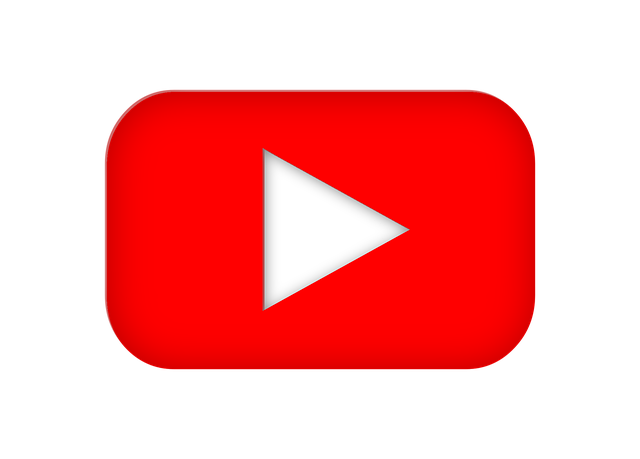
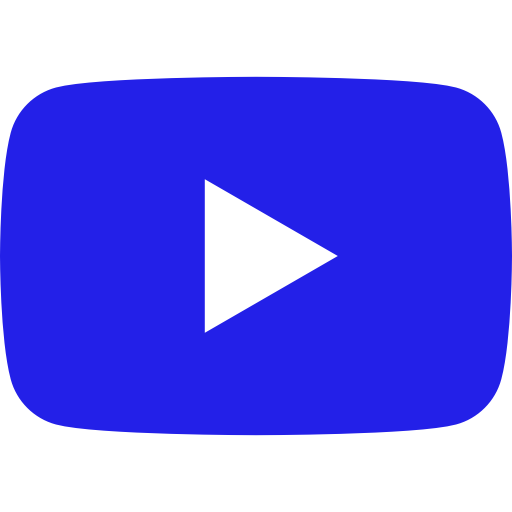
fixed grid and added color scheme

diff --git a/resume-style.css b/resume-style.css
@@ -2,166 +2,193 @@
   margin: 0;
 }
 
+header {
+  background-color: #32586d;
+}
+
 body {
-  background-color: rgb(59, 3, 3);
+  background-color: #748d9a;
 }
 
 .grid-container {
   display: grid;
-  grid-template-columns: .5fr 1fr;
-  grid-template-rows: .7fr 1.3fr 1fr;
+  grid-template-columns: 30% 70%;
+  grid-template-rows: 20% 80%;
+  margin: 0% 10%;
+}
+
+header {
+  display: flex;
 }
 
 .image {
-  display: grid;
-  background-color: white;
+  display: flex;
+  background-color: #32586d;
   width: 310px;
   height: 301px;
   border-radius: 8px;
-  float: left;
-  margin-left: 60%;
-  margin-top: 100px;
+  margin-left: 150%;
+  margin-top: 20%;
 }
-
-.title {  
-  display: grid;
-}
-
 
 #one {
-  display: grid;
-  grid-column: 1/2;
-  grid-row: 1/2;
+  display: flex;
 }
 
 #two {
-  display: grid;
-  grid-column: 2/2;
-  grid-row: 1/2;
+  display: flex;
+  justify-content: center;
+  align-items: center;
+  flex-direction: column;
+  padding-left: 25%;
 }
 
 #three {
-  display: grid;
+  display: flex;
   grid-column: 1/2;
   grid-row: 1/2;
-  padding-left: 60%;
-  padding-top: 5%;
+  padding-top: 8%;
+  padding-left: 20%;
 }
 
 #three-parts {
   display: grid;
-  grid-row: 2/3;
   grid-column: 1/2;
-  padding-left: 60%;
   padding-top: 5%;
+  grid-gap: 25px;
 }
 
-#four {
-  display: grid;
-  grid-column: 2/2;
-  grid-row: 1/2;
-  padding-left: 35%;
-  margin-top: 470px;
+#five img {
+  display: inline-block;
+  margin: 10px;
+  width: 65px;
+  height: 65px;
+}
+
+#five a {
+  margin: 10px;
 }
 
 h2 {
-  color: white;
+  color: #192029;
   font-size: 50px;
-  display: grid;
+  display: flex;
   font-family: 'Cinzel', serif;
-  margin-top: 15%;
-  margin-left: 100px;
 }
 
 h3 {
-  color: white;
-  display: grid;
+  color: #86655f;
+  display: flex;
   font-family: 'Bebas Neue';
   font-size: 25px;
   font-weight: 100;
-  grid-column: 2/2;
-  grid-row: 1/1;
-  margin-top: 20%;
-  margin-left: 18%;
 }
 
 h4 {
-  color: white;
+  color: #303d4d;
   font-size: 35px;
   font-family: 'Cinzel', serif;
-  grid-column: 2/2;
-  grid-row: 3/3;
+  padding-top: 5%;
+  padding-left: 30%;
 }
 
 h5 {
-  color: white;
+  color: #303d4d;
   font-size: 30px;
-  display: grid;
+  display: flex;
+  white-space: nowrap;
+  padding-top: 5%;
   font-family: 'Cinzel', serif;
   grid-column: 1/2;
-  grid-row: 3/3;
-  margin-top: 170%;
-}
-
-.circle {
-  background-color: grey;
-  display: grid;
-  margin: 10px;
-  }
-
-#breaks {
-  display: inline-flex;
-  grid-column: 2/2;
-  grid-row: 2/2;
- 
 }
 
 .phone {
-  filter: grayscale(100%);
+  filter: hue-rotate(-0.90turn);
   display: flex;
   height: 40px;
-  grid-column: 1/2;
-  grid-row: 3/3;
+  justify-content: center;
 }
 
 .location {
-    filter: grayscale(100%);
     display: flex;
     height: 80px;
+    justify-content: center;
   }
 
-p {
-  color: white;
+  p {
+    color: #303d4d;
+    font-family: 'Bebas Neue';
+    font-size: 25px;
+    letter-spacing: .1rem;
+  }
+
+#three-parts p {
+  padding-left: 38%;
+  font-size: 20px;
+  color: #855950;
+}
+
+#four p {
+  padding-left: 30.75%;
+}
+
+#four article {
+  padding-left: 15%;
+  padding-right: 30%;
+}
+
+
+article {
+  color: #855950;
   font-family: 'Bebas Neue';
+  font-size: 20px;
+  letter-spacing: .1rem;
 }
 
 .email {    
-  filter: grayscale(100%);
   display: flex;
   height: 80px;
+  justify-content: center;
 }
 
 .linkedin {
-  filter: grayscale(100%);
+  filter: hue-rotate(0.85turn);
   display: flex;
   height: 80px;
+  justify-content: center;
 }
 
 .social-media {
-  filter: grayscale(100%);
   display: flex;
-  height: 50px;
-  width: 50px;
-  justify-content: space-evenly;
+  flex-direction: column;
+  align-items: center;
 }
 
 .professional-history p {
-  display: grid;
+  display: flex;
   flex-direction: column;
   padding-top: 80px;
-  
 }
 
 .professional-history {
   display: grid;
+  grid-gap: 25px;
 }
+
+.history {
+  display: flex;
+  grid-column: 2/3;
+  grid-row: 1/2;
+}
+
+.social-media-icons {
+  display: inline-block;
+  justify-content: space-around;
+  padding-top: 5%;
+}
+
+.social-media-links {
+  display: inline-block;
+  padding: 1% 0%;
+}
+

diff --git a/resume.html b/resume.html
@@ -30,17 +30,10 @@
     <title>Resume</title>
   </head>
 
-  <style>
-    .circle {
-      border-radius: 50%;
-      height: 10px;
-      width: 10px;
-      border: 2px solid gray;
-    }
-  </style>
+  <style></style>
 
   <body>
-    <div class="grid-container">
+    <header>
       <div id="one">
         <div class="image">
           <img src="mjf.png" width="300" height="300" />
@@ -51,15 +44,15 @@
         <div class="title">
           <h2><u>Maxwell Jacob Friedman</u></h2>
         </div>
-      </div>
-      <h3>"I'm better than you and you know it." -MJF</h3>
+      
+      <h3>"I'm better than you and you know it." -MJF</h3></div>
+    </header>
 
+      <div class="grid-container">
       <div id="three">
         <div class="contact-info">
           <h5>
-            <u
-              >Contact <br />
-              Information</u>
+            <u>Contact Information</u>
           </h5> </div></div>
 
           <div id="three-parts">
@@ -88,31 +81,37 @@
         </div>
       
 
-      <div id="four">
         <div class="history">
-          <h4><u>EXPERTISE</u></h4>
+          <h4><u>EXPERTISE</u></h4></div>
+
+      <div id="four">
         <div class="professional-history">
-        <p>Professional history</p>
-        </div>
+        <p>Professional History</p>
+        <article>Lorem ipsum dolor sit amet consectetur adipisicing elit. At voluptatum et iure veritatis culpa dolores? Saepe commodi id modi soluta. Exercitationem, repudiandae! Sit, fugit soluta voluptate eligendi natus rem! Laborum?</article>
+        <p>Educational History</p>
+        <article>Lorem ipsum dolor sit amet consectetur, adipisicing elit. Molestiae, dolorum maiores dolor magnam rerum eum suscipit fugiat porro inventore quibusdam, id voluptate eligendi? Iusto vero sapiente, voluptate hic harum explicabo.</article>
         </div>
       </div>
-
-      <div id="breaks">
-        <div class="circle"></div>
-        <div class="circle"></div>
-        <div class="circle"></div>
       </div>
 
       <div id="five">
         <div class="social-media">
+          <div class="social-media-icons">
           <img src="twitter.png" /> <img src="instagram.png" />
           <img src="facebook.png" /> <img src="youtube.png" />
-          <a
-            href="https://twitter.com/The_MJF?ref_src=twsrc%5Egoogle%7Ctwcamp%5Eserp%7Ctwgr%5Eauthor"
-            >Twitter</a
-          >
+          </div>
+
+          <div class="social-media-links">
+          <a href="https://twitter.com/The_MJF?ref_src=twsrc%5Egoogle%7Ctwcamp%5Eserp%7Ctwgr%5Eauthor"
+            >Twitter</a>
+          <a href="https://www.instagram.com/the_mjf/?hl=en">Instagram</a>
+          <a href="https://www.facebook.com/hashtag/mjf/">Facebook</a>
+          <a href="https://www.youtube.com/hashtag/mjf">Youtube</a>
+        
         </div>
       </div>
-    </div>
+
+
+    
   </body>
 </html>
